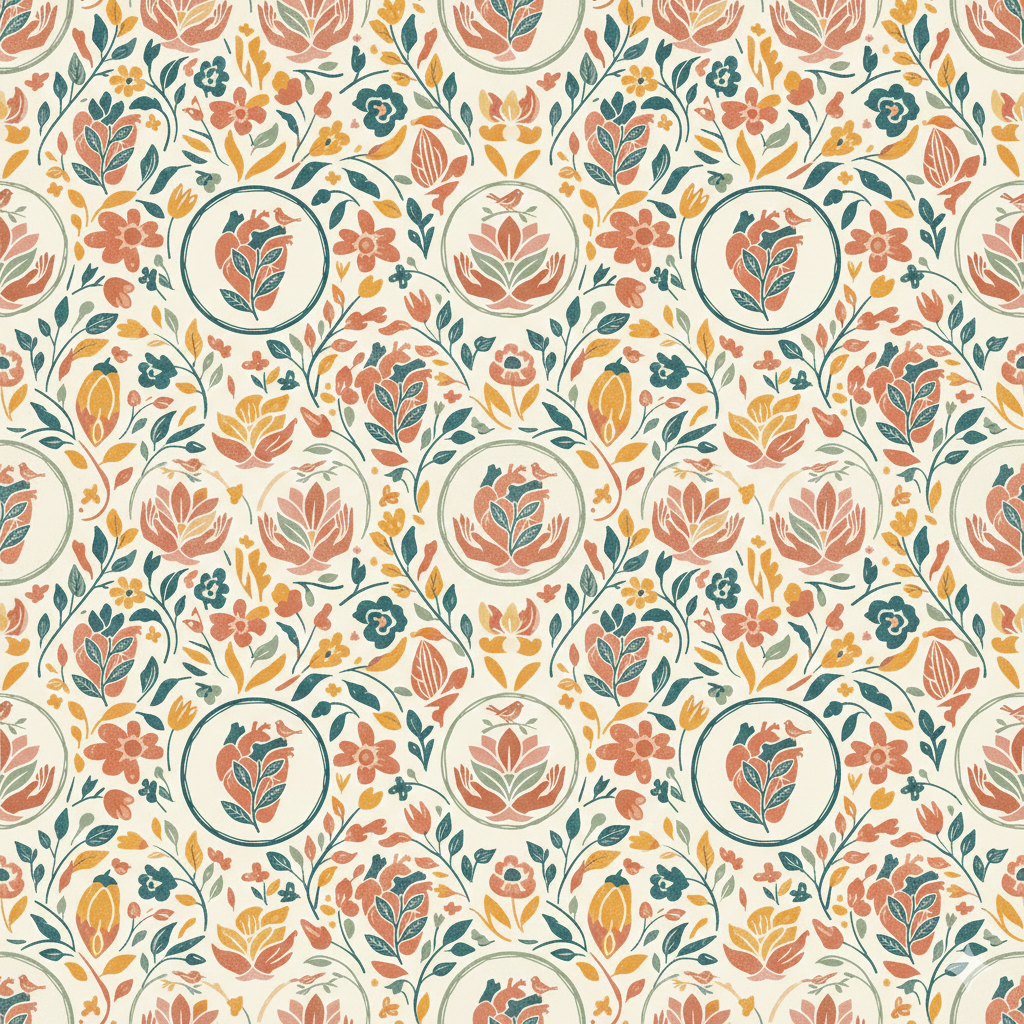
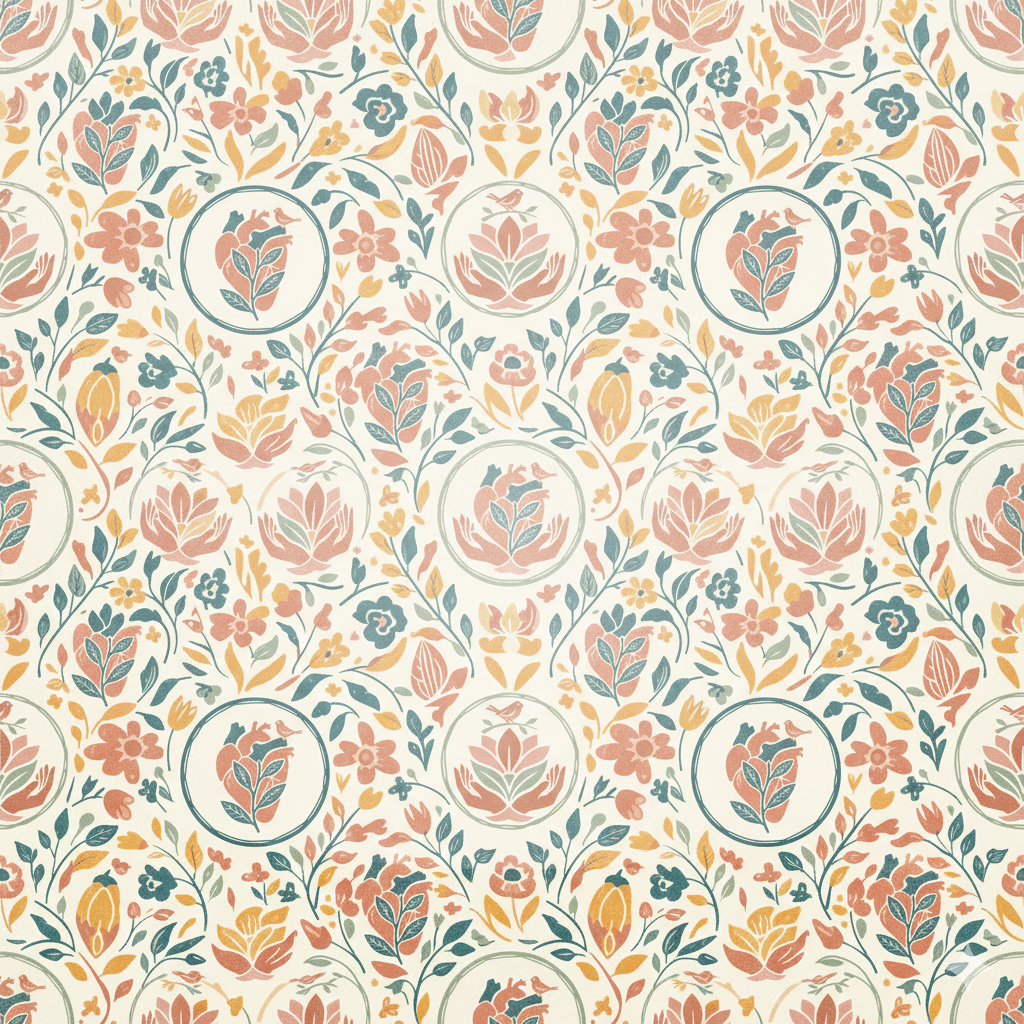
feat: apply subtle gradient overlays to About background with ImageMagick
**Background Image Processing:**
- Used ImageMagick to bake gradient overlays directly into background-1.png
- Added subtle top gradient (30% opacity white fade from top)
- Added wide oval glow in center (70% width × 40% height ellipse at 45% vertical)
- Oval glow at 35% opacity for gentle highlight behind "Folk Care" text

**CSS Simplification:**
- Removed ::before pseudo-element overlay (no longer needed)
- Simplified .header to just use background image
- Cleaner code with overlays baked into image vs CSS

**Result:**
- Subtle, natural-looking background without being too bleached
- Pattern remains visible with gentle lightening at top and center
- More precise control via ImageMagick vs CSS gradients

🤖 Generated with [Claude Code](https://claude.com/claude-code)

diff --git a/about/index.html b/about/index.html
@@ -105,23 +105,6 @@
       border-bottom: 3px solid rgba(193, 122, 111, 0.2);
     }
 
-    .header::before {
-      content: '';
-      position: absolute;
-      top: 0;
-      left: 0;
-      right: 0;
-      bottom: 0;
-      background:
-        linear-gradient(to bottom,
-          rgba(253, 252, 251, 0.95) 0%,
-          rgba(253, 252, 251, 0.7) 15%,
-          transparent 30%
-        ),
-        radial-gradient(ellipse 70% 50% at center 45%, rgba(255, 255, 255, 0.5) 0%, transparent 70%);
-      pointer-events: none;
-    }
-
     .logo {
       width: 160px;
       height: 160px;
